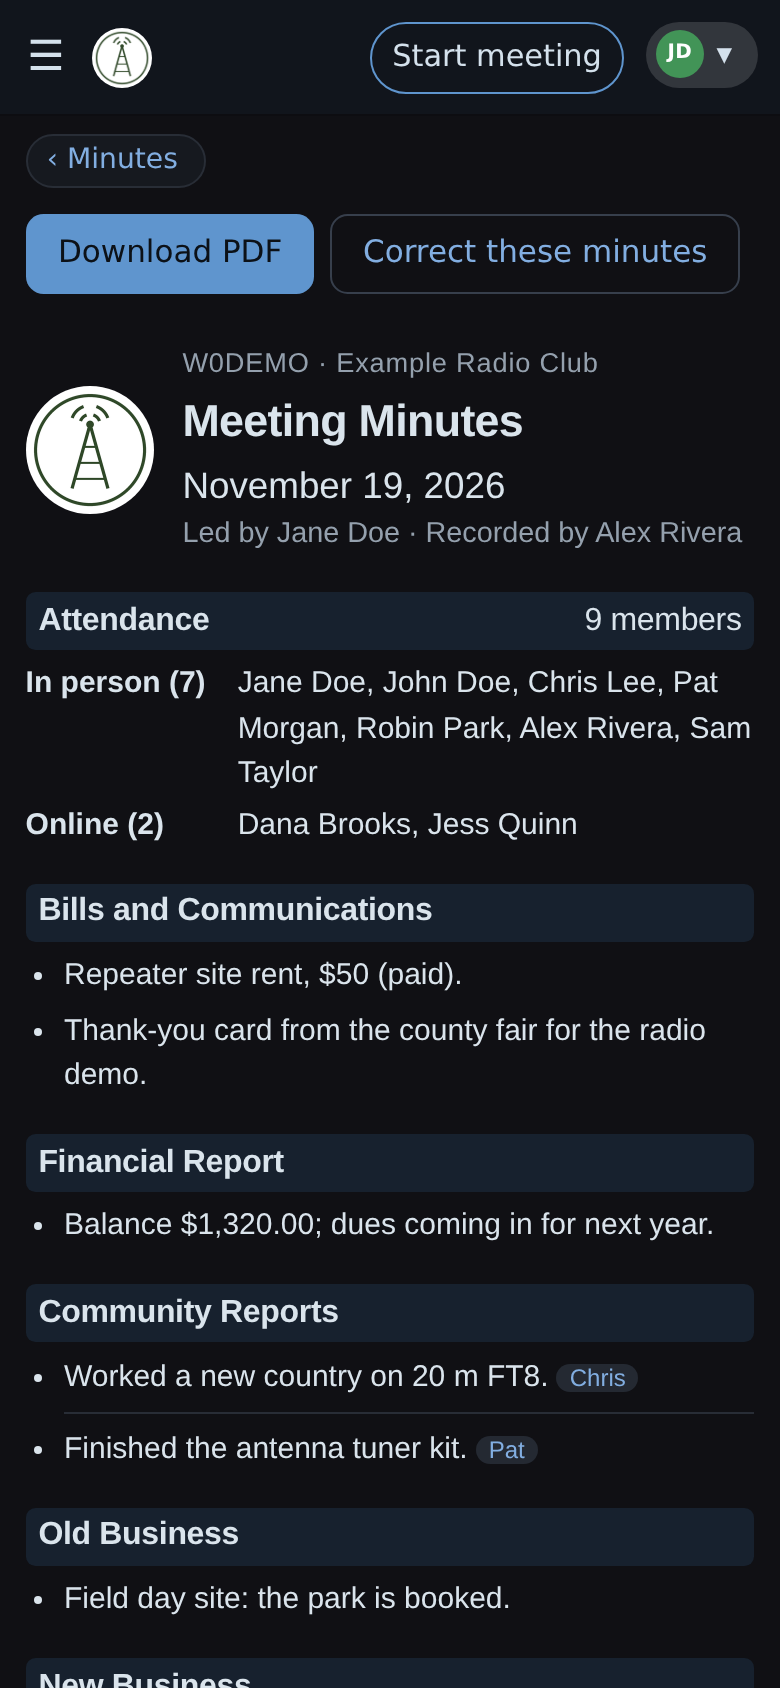
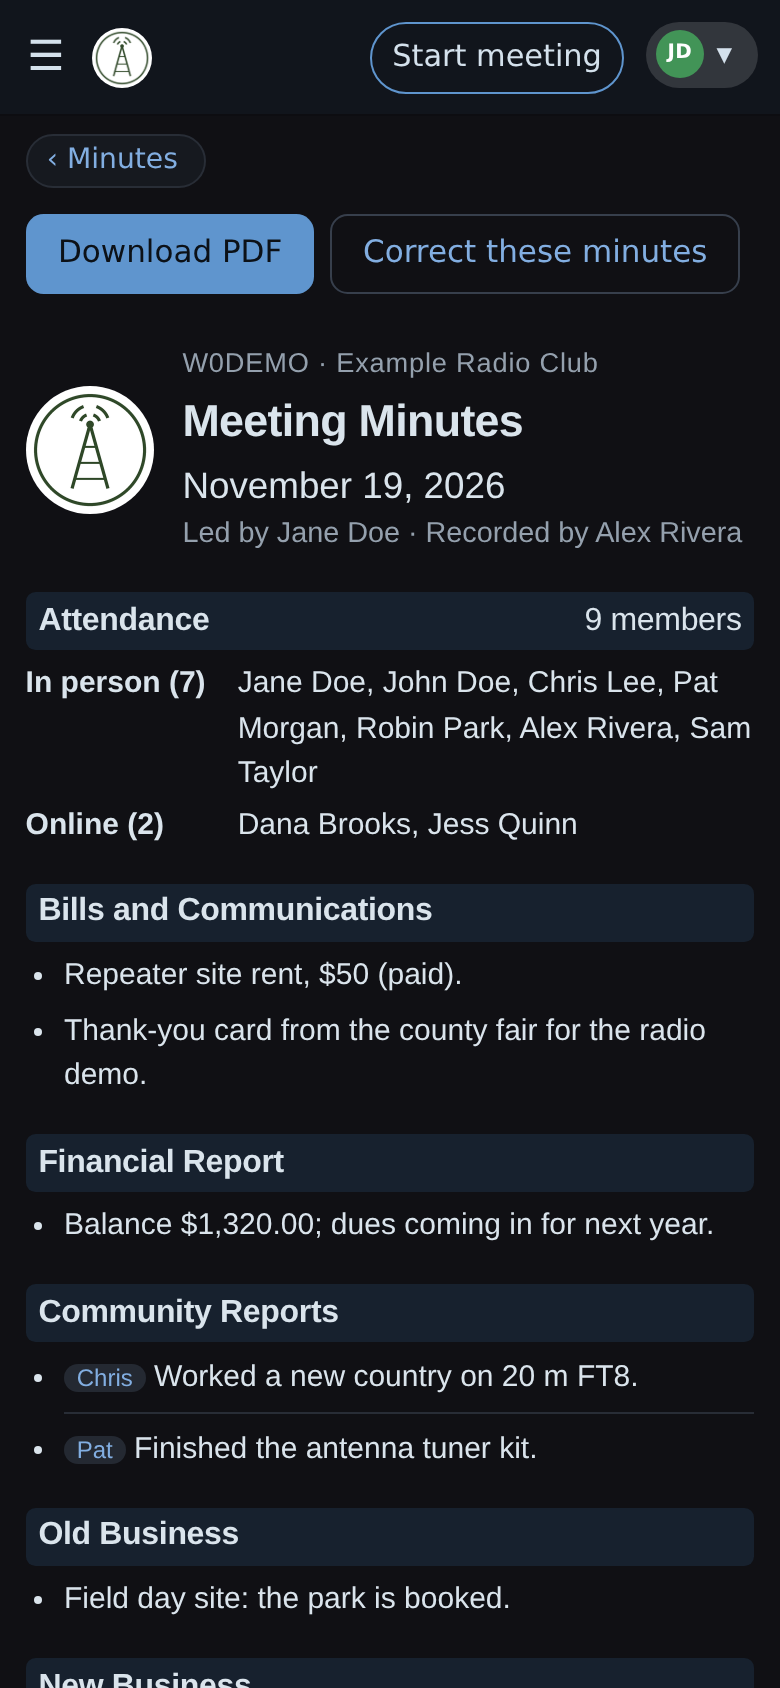
A community report's name once: its tag leads the report, and the minutes PDF shows it too
The minutes showed a report's name twice: at its start (typed, or added by the leader console) and as a tag at its end. Now the tag comes first and the name at the start of the text is left out when shown (the full, short or first name, with a following " - " or ":"); the saved text keeps it. The PDF prints the tag too (it had none). A member's page shows their reports without the name.

Claude-Session: https://claude.ai/code/session_015owk5TiPMdNvfPjQe9t2MK

Changed region(s): [[0.0615, 0.8009, 0.8308, 0.8934]]

diff --git a/src/club_minutes/static/minutes.css b/src/club_minutes/static/minutes.css
@@ -11,6 +11,7 @@
 .minutes .att dt { font-weight: bold; } .minutes .att dd { margin: 0; }
 .minutes ul.items { margin: 0; padding-left: 1.2rem; } .minutes ul.items li { margin: .3rem 0; }
 .minutes ul.items p { margin: .25rem 0; } .minutes ul.items li > p:first-child { margin-top: 0; } .minutes ul.items ul, .minutes ul.items ol { margin: .2rem 0; } .minutes ul.items li li { margin: .1rem 0; }  /* a report's own paragraphs and lists (richtext.py): close together */
+.minutes .who + p { display: inline; }  /* a report's first paragraph runs on from its name (the pill before it) */
 .minutes .who { white-space: nowrap; overflow-wrap: normal; word-break: keep-all; font-size: .75rem; background: var(--surface-3, #dee8f0); border-radius: .6rem; padding: 0 .4rem; text-decoration: none; color: var(--accent-text, #192760); }
 .minutes .cs { font-family: monospace; }
 .minutes .links ul { padding-left: 1.2rem; font-size: .9rem; } .minutes .ver { font-size: .8rem; color: var(--muted, #667); }

diff --git a/src/club_minutes/templates/_minutes.html b/src/club_minutes/templates/_minutes.html
@@ -25,7 +25,7 @@
     <h2>{{ sec }}</h2>
     {% if sec == 'Upcoming Chow' and not items %}<p class="muted">See the attached chow list.</p>{% endif %}
     <ul class="items {{ 'reports' if sec == 'Community Reports' }}">
-      {% for it in items %}<li>{{ it.shown|rich(pdf) }}{% if it.member and not pdf %} <a class="who" href="/members/{{ it.member }}">{{ club.short(it.member) }}</a>{% endif %}{{ pics(it.pictures, pdf, "Picture with " ~ (club.short(it.member) if it.member else "this item")) }}</li>{% endfor %}
+      {% for it in items %}<li>{% if it.member %}{% if pdf %}<span class="who">{{ club.short(it.member) }}</span>{% else %}<a class="who" href="/members/{{ it.member }}">{{ club.short(it.member) }}</a>{% endif %} {{ club.unnamed(it.shown, it.member)|rich(pdf) }}{% else %}{{ it.shown|rich(pdf) }}{% endif %}{{ pics(it.pictures, pdf, "Picture with " ~ (club.short(it.member) if it.member else "this item")) }}</li>{% endfor %}
     </ul>
     {% endif %}
   {% endfor %}

diff --git a/src/club_minutes/templates/member.html b/src/club_minutes/templates/member.html
@@ -26,6 +26,6 @@
 {% if h.present %}Last attended {{ h.present[0][0].date|listdate }}.{% endif %}</p>
 <h2>Community reports</h2>
 <ul class="results">{% for m, it in h.reports %}
-<li><a href="/meetings/{{ m.slug }}">{{ m.date|listdate }}</a><div>{{ it.text|rich }}</div></li>
+<li><a href="/meetings/{{ m.slug }}">{{ m.date|listdate }}</a><div>{{ club.unnamed(it.text, it.member)|rich }}</div></li>
 {% else %}<li class="muted">No reports attributed yet.</li>{% endfor %}</ul>
 {% endblock %}

diff --git a/tests/test_archive.py b/tests/test_archive.py
@@ -450,3 +450,15 @@ def test_front_matter_value_with_dashes_round_trips(m):
                             reviewed={"by": "n0call", "at": "2026-01-01"})
     back = Meeting.from_markdown(c.to_markdown())
     assert back.corrections == c.corrections and back.reviewed == c.reviewed
+
+
+def test_a_reports_name_shows_once_as_its_pill():
+    """club.unnamed: the minutes show the member's name as a pill before the report, so the name typed at its start
+    goes (any of full, short or first name, then " - " or ":"); a list under the name keeps its marks."""
+    assert club.unnamed("Jane D - built a dipole", "doe") == "built a dipole"
+    assert club.unnamed("Jane Doe: field day", "doe") == "field day"
+    assert club.unnamed("jane went to Dayton", "doe") == "went to Dayton"
+    assert club.unnamed("Jane D\n- mast\n- coax", "doe") == "- mast\n- coax"
+    assert club.unnamed("Rick Roe 50/50 drawing", "roe") == "50/50 drawing"
+    assert club.unnamed("Janet built a mast", "doe") == "Janet built a mast"  # a whole name only
+    assert club.unnamed("Jane D", "doe") == "" and club.unnamed("Sam built", None) == "Sam built"

diff --git a/src/club_minutes/club.py b/src/club_minutes/club.py
@@ -675,6 +675,17 @@ class Club:
         m = self.members.get(self.canonical(mid))
         return (m.short or m.first or m.last) if m else mid.title()
 
+    def unnamed(self, text: str, mid: str | None) -> str:
+        """A report without the member's name at its start ("Jim F - Built…", "Jim built…"): the minutes show the name
+        once, as a pill before the report (Jim, 2026-11-20). The saved text keeps it, so the file and emails still say who."""
+        m = self.members.get(self.canonical(mid)) if mid else None
+        if not m:
+            return text
+        for n in sorted({m.name, self.short(mid), m.first} - {""}, key=len, reverse=True):
+            if re.match(rf"{re.escape(n)}\b", text, re.IGNORECASE):
+                return re.sub(r"^[ \t]*[-–—:,]?[ \t]*", "", text[len(n):]).lstrip("\n")  # not a list's "- " below
+        return text
+
     def resolve_surname(self, word: str) -> str | None:
         """Map an attendance-list surname (with spelling drift) to a member id."""
         w = word.lower()

diff --git a/CHANGELOG.md b/CHANGELOG.md
@@ -7,6 +7,7 @@ Versions follow [semantic versioning](https://semver.org): the first number goes
 ## Unreleased
 - **Pictures:** up to four pictures on a community report (added in the leader console), a business item (by its owner or an officer) or a comment. Members see them, never the public; in the minutes' PDF they print half the page wide. Pictures are shrunk and saved without their hidden details, such as where a phone took them; a removed picture is deleted. Admins set how many pictures a member can add in a day (20 unless changed, on Site → Features).
 - **Formatting:** bold, italic and lists in community reports, business items and comments, from a toolbar above the box (pictures are there too). Web addresses always show in full, and the QR button gives one a QR code, so a printed copy of the minutes still gets readers there. A faint line now separates one community report from the next.
+- **A community report's name, once:** the member's name now leads each report as its tag (it no longer shows at the start and again at the end), and the minutes PDF shows it too.
 
 ## 1.1.0 (2026-11-19)
 - **Custom roles:** a club decides what each role may do and who has it (by office, or member by member), and can add roles of its own. Leading meetings (Meeting leader) and fixing published minutes (Minutes editor) are now separate roles, and a Secretary role gets the roster emails.
